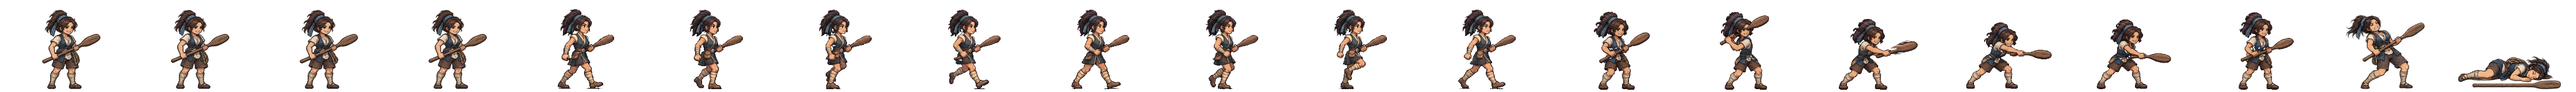
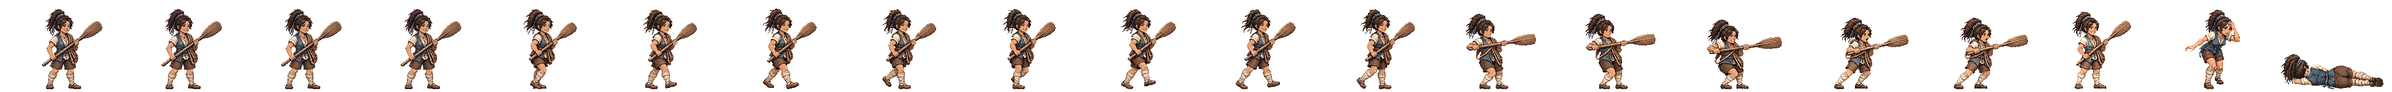
사물 사공 새 전투 띠를 게임에 넣음(서기·걷기·노 찌르기 여덟 칸·쓰러짐·밧줄 고쳐 메기)
띠 검사 합격(경고: 공격 끝 칸 윗몸 11px 뒤) · 시험 2162 통과.

Claude-Session: https://claude.ai/code/session_01TRiuN7s6aDfSnaHxrkctmU

Changed region(s): [[0.0, 0.125, 1.0, 0.9688]]

diff --git a/src/realm/data/spritePx.ts b/src/realm/data/spritePx.ts
@@ -1,3 +1,3 @@
 /** public/realm/anim-px/manifest.json 의 사본 — tools/sprite-normalize.mjs 가 만든다 (손으로 고치지 말 것). 칸 [가로, 세로] · feet = 발 줄(칸 위에서 y) · bodyPx = 서 있는 몸 키 */
 import { expandManifest } from './sprite-manifest.ts'
-export const SPRITE_PX: Readonly<Record<string, { readonly cell: readonly [number, number]; readonly feet: number; readonly bodyPx: number; readonly kind: 'general' | 'soldier' | 'folk' | 'crowd'; readonly cells: number }>> = expandManifest<{ readonly cell: readonly [number, number]; readonly feet: number; readonly bodyPx: number; readonly kind: 'general' | 'soldier' | 'folk' | 'crowd'; readonly cells: number }>([{"cell":[166,128],"feet":126,"bodyPx":124,"kind":"soldier","cells":20},{"cell":[116,128],"feet":126,"bodyPx":117,"kind":"soldier","cells":20},{"cell":[127,128],"feet":126,"bodyPx":116,"kind":"soldier","cells":20},{"cell":[269,128],"feet":126,"bodyPx":126,"kind":"soldier","cells":20},{"cell":[503,128],"feet":126,"bodyPx":127,"kind":"soldier","cells":20},{"cell":[614,128],"feet":126,"bodyPx":126,"kind":"soldier","cells":20},{"cell":[200,160],"feet":156,"bodyPx":138,"kind":"general","cells":20},{"cell":[208,160],"feet":155,"bodyPx":138,"kind":"general","cells":20},{"cell":[208,160],"feet":154,"bodyPx":138,"kind":"general","cells":20},{"cell":[304,160],"feet":155,"bodyPx":135,"kind":"general","cells":20},{"cell":[224,160],"feet":156,"bodyPx":139,"kind":"general","cells":20},{"cell":[184,160],"feet":156,"bodyPx":138,"kind":"general","cells":20},{"cell":[208,160],"feet":154,"bodyPx":136,"kind":"general","cells":20},{"cell":[240,160],"feet":156,"bodyPx":138,"kind":"general","cells":20},{"cell":[232,160],"feet":156,"bodyPx":138,"kind":"general","cells":20},{"cell":[208,160],"feet":156,"bodyPx":138,"kind":"general","cells":20},{"cell":[168,160],"feet":156,"bodyPx":138,"kind":"general","cells":20},{"cell":[192,160],"feet":156,"bodyPx":138,"kind":"general","cells":20},{"cell":[168,160],"feet":156,"bodyPx":124,"kind":"general","cells":20},{"cell":[216,160],"feet":156,"bodyPx":130,"kind":"general","cells":20},{"cell":[200,160],"feet":156,"bodyPx":116,"kind":"general","cells":20},{"cell":[200,160],"feet":156,"bodyPx":135,"kind":"general","cells":20},{"cell":[280,160],"feet":156,"bodyPx":138,"kind":"general","cells":20},{"cell":[232,160],"feet":155,"bodyPx":138,"kind":"general","cells":20},{"cell":[232,160],"feet":156,"bodyPx":134,"kind":"general","cells":20},{"cell":[144,160],"feet":156,"bodyPx":70,"kind":"general","cells":20},{"cell":[208,160],"feet":156,"bodyPx":70,"kind":"general","cells":20},{"cell":[192,160],"feet":156,"bodyPx":70,"kind":"general","cells":20},{"cell":[240,160],"feet":155,"bodyPx":138,"kind":"general","cells":20},{"cell":[160,160],"feet":156,"bodyPx":135,"kind":"general","cells":20},{"cell":[192,160],"feet":156,"bodyPx":128,"kind":"general","cells":20},{"cell":[224,160],"feet":155,"bodyPx":138,"kind":"general","cells":20},{"cell":[232,160],"feet":156,"bodyPx":139,"kind":"general","cells":20},{"cell":[264,160],"feet":155,"bodyPx":138,"kind":"general","cells":20},{"cell":[216,160],"feet":156,"bodyPx":138,"kind":"general","cells":20},{"cell":[208,160],"feet":156,"bodyPx":134,"kind":"general","cells":20},{"cell":[176,160],"feet":156,"bodyPx":130,"kind":"general","cells":20},{"cell":[248,160],"feet":156,"bodyPx":138,"kind":"general","cells":20},{"cell":[248,160],"feet":155,"bodyPx":138,"kind":"general","cells":20},{"cell":[192,160],"feet":155,"bodyPx":138,"kind":"general","cells":20},{"cell":[192,160],"feet":156,"bodyPx":124,"kind":"general","cells":20},{"cell":[208,160],"feet":154,"bodyPx":131,"kind":"general","cells":20},{"cell":[256,160],"feet":156,"bodyPx":138,"kind":"general","cells":20},{"cell":[232,160],"feet":156,"bodyPx":73,"kind":"general","cells":20},{"cell":[256,160],"feet":155,"bodyPx":138,"kind":"general","cells":20},{"cell":[264,160],"feet":156,"bodyPx":138,"kind":"general","cells":20},{"cell":[224,160],"feet":156,"bodyPx":138,"kind":"general","cells":20},{"cell":[224,160],"feet":156,"bodyPx":128,"kind":"general","cells":20},{"cell":[176,160],"feet":156,"bodyPx":129,"kind":"general","cells":20},{"cell":[208,160],"feet":156,"bodyPx":132,"kind":"general","cells":20},{"cell":[216,160],"feet":155,"bodyPx":138,"kind":"general","cells":20},{"cell":[184,160],"feet":156,"bodyPx":122,"kind":"general","cells":20},{"cell":[176,160],"feet":156,"bodyPx":138,"kind":"general","cells":20},{"cell":[280,160],"feet":155,"bodyPx":133,"kind":"general","cells":20},{"cell":[176,160],"feet":156,"bodyPx":70,"kind":"general","cells":20},{"cell":[186,128],"feet":126,"bodyPx":127,"kind":"soldier","cells":20},{"cell":[298,128],"feet":126,"bodyPx":126,"kind":"soldier","cells":20},{"cell":[82,128],"feet":126,"bodyPx":114,"kind":"folk","cells":8},{"cell":[134,128],"feet":126,"bodyPx":119,"kind":"soldier","cells":20},{"cell":[380,128],"feet":126,"bodyPx":124,"kind":"soldier","cells":20},{"cell":[114,128],"feet":126,"bodyPx":115,"kind":"soldier","cells":20},{"cell":[122,128],"feet":126,"bodyPx":114,"kind":"soldier","cells":20},{"cell":[254,128],"feet":126,"bodyPx":128,"kind":"soldier","cells":20},{"cell":[438,128],"feet":126,"bodyPx":126,"kind":"soldier","cells":20},{"cell":[88,128],"feet":126,"bodyPx":113,"kind":"folk","cells":8},{"cell":[100,128],"feet":126,"bodyPx":115,"kind":"folk","cells":8},{"cell":[108,128],"feet":126,"bodyPx":115,"kind":"folk","cells":8},{"cell":[63,128],"feet":126,"bodyPx":113,"kind":"folk","cells":8},{"cell":[69,96],"feet":96,"bodyPx":96,"kind":"crowd","cells":1},{"cell":[54,96],"feet":96,"bodyPx":96,"kind":"crowd","cells":1},{"cell":[47,96],"feet":96,"bodyPx":96,"kind":"crowd","cells":1},{"cell":[49,96],"feet":96,"bodyPx":96,"kind":"crowd","cells":1},{"cell":[57,96],"feet":96,"bodyPx":96,"kind":"crowd","cells":1},{"cell":[55,96],"feet":96,"bodyPx":96,"kind":"crowd","cells":1},{"cell":[45,96],"feet":96,"bodyPx":96,"kind":"crowd","cells":1},{"cell":[53,96],"feet":96,"bodyPx":96,"kind":"crowd","cells":1},{"cell":[64,96],"feet":96,"bodyPx":96,"kind":"crowd","cells":1},{"cell":[208,160],"feet":154,"bodyPx":139,"kind":"general","cells":20},{"cell":[184,160],"feet":156,"bodyPx":124,"kind":"general","cells":20},{"cell":[184,160],"feet":156,"bodyPx":134,"kind":"general","cells":20},{"cell":[224,160],"feet":156,"bodyPx":133,"kind":"general","cells":20},{"cell":[192,160],"feet":156,"bodyPx":135,"kind":"general","cells":20},{"cell":[184,160],"feet":156,"bodyPx":137,"kind":"general","cells":20},{"cell":[216,160],"feet":156,"bodyPx":134,"kind":"general","cells":20},{"cell":[216,160],"feet":156,"bodyPx":132,"kind":"general","cells":20},{"cell":[288,160],"feet":156,"bodyPx":138,"kind":"general","cells":20},{"cell":[192,160],"feet":156,"bodyPx":118,"kind":"general","cells":20},{"cell":[192,160],"feet":156,"bodyPx":134,"kind":"general","cells":20},{"cell":[192,160],"feet":157,"bodyPx":139,"kind":"general","cells":20},{"cell":[184,160],"feet":156,"bodyPx":128,"kind":"general","cells":20},{"cell":[240,160],"feet":156,"bodyPx":128,"kind":"general","cells":20},{"cell":[184,160],"feet":156,"bodyPx":132,"kind":"general","cells":20},{"cell":[208,160],"feet":156,"bodyPx":123,"kind":"general","cells":20},{"cell":[208,160],"feet":154,"bodyPx":137,"kind":"general","cells":20},{"cell":[176,160],"feet":156,"bodyPx":116,"kind":"general","cells":20},{"cell":[272,160],"feet":156,"bodyPx":138,"kind":"general","cells":20},{"cell":[176,160],"feet":156,"bodyPx":122,"kind":"general","cells":20},{"cell":[232,160],"feet":156,"bodyPx":127,"kind":"general","cells":20},{"cell":[176,160],"feet":156,"bodyPx":137,"kind":"general","cells":20},{"cell":[184,160],"feet":156,"bodyPx":133,"kind":"general","cells":20}],[["axe",0],["bandit-chief",1],["bandit-club",2],["boat",3],["bow",4],["crossbow",5],["gen-adogan",6],["gen-alpyeong",7],["gen-ara",8],["gen-areum",8],["gen-aryeong",9],["gen-bakdal",6],["gen-baram",10],["gen-bdanbi",11],["gen-beom",12],["gen-beombal",11],["gen-beomi",13],["gen-bira",14],["gen-biryu",15],["gen-budeul",16],["gen-byeol",17],["gen-daemusin",18],["gen-daeso",19],["gen-dallae2",11],["gen-dalli",11],["gen-damul",20],["gen-danbi",15],["gen-dangung",17],["gen-darae",21],["gen-dokmudeom",7],["gen-duman",22],["gen-eomni",23],["gen-eureum",24],["gen-g-bow",25],["gen-g-spear",26],["gen-g-sword",27],["gen-gaennae",6],["gen-gamsil",28],["gen-gaon",29],["gen-geota",15],["gen-geumbawi",11],["gen-geumha",30],["gen-goeun",15],["gen-gom",31],["gen-gomok",15],["gen-gureum",28],["gen-guryema",17],["gen-gwaeyu",14],["gen-haebi",8],["gen-haedal",6],["gen-haesol",32],["gen-halla",7],["gen-heo",33],["gen-hneoul",11],["gen-hogong",34],["gen-hojin",15],["gen-horselord",35],["gen-hwalmi",36],["gen-hyeokgeose",17],["gen-hyeopbo",6],["gen-irang",15],["gen-jibaekho",37],["gen-jinha",38],["gen-jita",39],["gen-jumong",40],["gen-keundol",7],["gen-maehwa",41],["gen-maenun",17],["gen-malgalgi",42],["gen-mari",13],["gen-maro",37],["gen-maryeo",15],["gen-mdallae",32],["gen-mir",6],["gen-mount",43],["gen-mulbeom",44],["gen-mulsae",34],["gen-musoe",34],["gen-noeul",8],["gen-nuri",45],["gen-ocheongan",46],["gen-odi",38],["gen-odogan",6],["gen-ogan",17],["gen-oi",47],["gen-olddaeso",24],["gen-onjo",48],["gen-pidogan",15],["gen-sagong",31],["gen-sdallae",6],["gen-sincheongan",34],["gen-singwigan",34],["gen-sinneoul",23],["gen-sobeol",23],["gen-soebi",6],["gen-soebo",49],["gen-soenun",37],["gen-sogeumbi",50],["gen-songbi",46],["gen-songyang",51],["gen-sori",52],["gen-soseono",53],["gen-suro",17],["gen-tahae",6],["gen-tneoul",46],["gen-w-bow",25],["gen-w-spear",54],["gen-waechief",15],["gen-wan",34],["gen-yeodogan",15],["gen-yucheongan",15],["gen-yusugan",37],["horse",55],["marine",56],["migrant",57],["militia",58],["pike",59],["pirate-captain",60],["pirate-sword",61],["shield",62],["spear",63],["villager-builder",64],["villager-farmer",65],["villager-porter",66],["villager-woman",67],["crowd-b1",68],["crowd-b2",69],["crowd-b3",70],["crowd-b4",71],["crowd-b5",72],["crowd-b6",73],["crowd-f1",68],["crowd-f2",73],["crowd-f3",74],["crowd-f4",75],["crowd-f5",68],["crowd-f6",76],["gen-dalbit",15],["gen-base-g-07-drunk-warrior",17],["gen-base-g-40-anya-adan",15],["gen-base-w-13-young-archer",8],["gen-base-g-03-sea-trader",13],["gen-base-w-10-pirate-captain",77],["gen-base-w-64-miri-dallae",77],["gen-base-g-41-goja-bau",13],["gen-base-g-42-dokro-garam",45],["gen-base-g-09-farmer-conscript",34],["gen-base-w-02-goguryeo-lady",34],["gen-base-w-17-mahan-pearl-diver",8],["gen-base-g-17-saro-isageum",49],["gen-base-g-18-daegaya-king",78],["gen-base-g-35-dabeol-dalgu",15],["gen-base-g-19-sabeol-veteran",34],["gen-base-w-23-usisan-whale-queen",34],["gen-base-g-36-gammun-gamdol",46],["gen-base-g-20-samul-sea-lord",42],["gen-base-g-37-eumjeup-jeup",11],["gen-base-g-38-chopal-palmae",17],["gen-base-w-75-daegaya-soemoe",17],["gen-base-g-45-dabeol-deulgae",11],["gen-base-g-04-jinhan-giant",15],["gen-base-g-08-veteran",15],["gen-base-w-18-jinhan-salt-widow",15],["gen-base-w-12-court-dancer",79],["gen-base-w-83-gyeonji-beodeul",80],["gen-base-w-05-baekje-queen",81],["gen-base-w-21-baekje-court-dancer",11],["gen-base-g-01-master-smith",82],["gen-base-g-93-jomun-solgae",36],["gen-base-g-57-bihwa-neup",13],["gen-base-w-72-eumjeup-beol",15],["gen-base-w-102-garak-dana",34],["gen-base-g-68-baekje-onnuri",15],["gen-base-w-27-mokji-jinha",6],["gen-base-g-22-ungcheon-gomnae",6],["gen-base-g-23-sangdang-soedal",15],["gen-base-g-24-wansan-onsan",6],["gen-base-g-25-balla-keunmoe",34],["gen-base-g-61-heomcheuk-bawi",34],["gen-base-g-88-wander-soeul",46],["gen-base-w-14-feast-spy",6],["gen-base-g-12-silla-youth",83],["gen-base-w-08-mahan-warrior",13],["gen-base-g-62-beonye-hanul",13],["gen-base-g-63-heomcheuk-beogeum",15],["gen-base-g-84-wander-seoneul",15],["gen-base-w-50-siljik-mulga",34],["gen-base-g-46-uga-nureongso",34],["gen-base-w-80-usan-gangchi",13],["gen-base-g-47-guga-sanyanggae",34],["gen-base-w-76-gampyeong-baetsagong",37],["gen-base-g-05-mahan-chieftain",84],["gen-base-g-58-usan-uhae",15],["gen-base-g-27-maek-maekdol",15],["gen-base-w-53-hwanna-gabi",16],["gen-base-w-29-golpo-janmul",37],["gen-base-g-53-baekje-haeru",6],["gen-base-w-71-yeonna-neoul",13],["gen-base-w-79-yangmaek-solmae",34],["gen-base-w-34-chopal-deulme",45],["gen-base-g-44-maga-malgup",85],["gen-base-w-31-dabeol-dalbit",77],["gen-base-g-51-biryuna-mulgyeol",46],["gen-base-g-48-gwanna-musoe",15],["gen-base-g-32-uga-sodu",14],["gen-base-g-49-goguryeo-sona",86],["gen-base-g-30-gwanna-soemoe",46],["gen-base-g-52-tamna-oreum",11],["gen-base-g-29-yeonna-myeongsol",40],["gen-base-w-56-dongokjeo-sogeum",87],["gen-base-g-54-mokji-mahan",14],["gen-base-g-33-jeoga-metdol",17],["gen-base-w-36-baekje-maena",17],["gen-base-w-38-sangdang-bulmae",6],["gen-base-w-39-gosaburi-galmae",88],["gen-base-w-40-mujin-munui",49],["gen-base-w-41-hwanna-beodeul",89],["gen-base-w-43-uga-nuri",42],["gen-base-w-45-tamna-oreumbi",11],["gen-base-g-60-golbeol-golgae",11],["gen-base-g-61-apdok-ap",34],["gen-base-g-62-gammun-gamnamu",6],["gen-base-g-63-chopal-yeoul",37],["gen-base-g-64-michuhol-sogeumkkun",13],["gen-base-g-65-sangdang-soemangchi",46],["gen-base-g-66-geonma-malbalgup",90],["gen-base-g-67-gosaburi-buri",91],["gen-base-g-68-mujin-bitgoeul",11],["gen-base-g-69-goryong-yong",46],["gen-base-g-70-siljik-pado",13],["gen-base-w-81-byeokjin-byeolbit",14],["gen-base-w-46-geonma-maru",37],["gen-base-w-48-mujin-mudeung",13],["gen-base-g-26-gampyeong-gaetbeol",14],["gen-base-g-60-eupcha-hangyeol",92],["gen-base-g-15-shaman-man",34],["gen-base-g-85-wander-ure",37],["gen-base-g-43-hwanna-amnok",15],["gen-base-g-50-bullae-gwaha",81],["gen-base-g-55-saro-bakdal",15],["gen-base-g-56-haseulla-gwahama",6],["gen-base-w-06-buyeo-huntress",93],["gen-base-w-22-dongye-tiger-huntress",8],["gen-base-w-25-bihwa-priestess",34],["gen-base-w-24-apdok-queen",11],["gen-base-w-61-iseo-sinae",15],["gen-base-w-26-iseo-tomboy-general",45],["gen-base-g-59-yangmaek-maekson",94],["gen-aw1-haebi",46],["gen-aw1-soseono",95],["gen-aw1-gamsil",11],["gen-aw1-mir",52],["gen-aw1-dangung",6],["gen-aw1-ara",46],["gen-aw1-jumong",96],["gen-aw1-onjo",97],["gen-aw1-base-w-83-gyeonji-beodeul",17],["gen-aw1-heo",45],["gen-aw1-base-g-38-chopal-palmae",6],["gen-aw1-base-w-25-bihwa-priestess",79],["gen-aw1-sori",16],["gen-aw1-gomok",6],["gen-aw1-irang",17],["gen-aw1-budeul",16],["gen-aw1-gom",13],["gen-aw1-sdallae",6],["gen-aw1-base-w-13-young-archer",6],["gen-aw1-base-w-36-baekje-maena",98],["gen-aw1-base-g-09-farmer-conscript",45],["gen-aw1-base-w-02-goguryeo-lady",99],["gen-aw1-haedal",11],["gen-aw1-hogong",6],["gen-aw1-maehwa",52],["gen-aw1-base-w-06-buyeo-huntress",14],["gen-aw1-base-w-08-mahan-warrior",46],["gen-aw1-base-w-29-golpo-janmul",46],["gen-aw1-base-w-31-dabeol-dalbit",17],["gen-aw1-base-w-38-sangdang-bulmae",16],["gen-aw1-bira",34],["gen-aw1-base-w-53-hwanna-gabi",16],["gen-aw1-base-w-56-dongokjeo-sogeum",52],["gen-aw1-base-w-72-eumjeup-beol",17],["gen-aw1-bdanbi",16],["gen-aw1-beom",11],["gen-aw1-beombal",11],["gen-aw1-byeol",17],["gen-aw1-dalli",52],["gen-aw1-malgalgi",37],["gen-aw1-sincheongan",34]])
+export const SPRITE_PX: Readonly<Record<string, { readonly cell: readonly [number, number]; readonly feet: number; readonly bodyPx: number; readonly kind: 'general' | 'soldier' | 'folk' | 'crowd'; readonly cells: number }>> = expandManifest<{ readonly cell: readonly [number, number]; readonly feet: number; readonly bodyPx: number; readonly kind: 'general' | 'soldier' | 'folk' | 'crowd'; readonly cells: number }>([{"cell":[166,128],"feet":126,"bodyPx":124,"kind":"soldier","cells":20},{"cell":[116,128],"feet":126,"bodyPx":117,"kind":"soldier","cells":20},{"cell":[127,128],"feet":126,"bodyPx":116,"kind":"soldier","cells":20},{"cell":[269,128],"feet":126,"bodyPx":126,"kind":"soldier","cells":20},{"cell":[503,128],"feet":126,"bodyPx":127,"kind":"soldier","cells":20},{"cell":[614,128],"feet":126,"bodyPx":126,"kind":"soldier","cells":20},{"cell":[200,160],"feet":156,"bodyPx":138,"kind":"general","cells":20},{"cell":[208,160],"feet":155,"bodyPx":138,"kind":"general","cells":20},{"cell":[208,160],"feet":154,"bodyPx":138,"kind":"general","cells":20},{"cell":[304,160],"feet":155,"bodyPx":135,"kind":"general","cells":20},{"cell":[224,160],"feet":156,"bodyPx":139,"kind":"general","cells":20},{"cell":[184,160],"feet":156,"bodyPx":138,"kind":"general","cells":20},{"cell":[208,160],"feet":154,"bodyPx":136,"kind":"general","cells":20},{"cell":[240,160],"feet":156,"bodyPx":138,"kind":"general","cells":20},{"cell":[232,160],"feet":156,"bodyPx":138,"kind":"general","cells":20},{"cell":[208,160],"feet":156,"bodyPx":138,"kind":"general","cells":20},{"cell":[168,160],"feet":156,"bodyPx":138,"kind":"general","cells":20},{"cell":[192,160],"feet":156,"bodyPx":138,"kind":"general","cells":20},{"cell":[168,160],"feet":156,"bodyPx":124,"kind":"general","cells":20},{"cell":[216,160],"feet":156,"bodyPx":130,"kind":"general","cells":20},{"cell":[200,160],"feet":156,"bodyPx":116,"kind":"general","cells":20},{"cell":[200,160],"feet":156,"bodyPx":135,"kind":"general","cells":20},{"cell":[280,160],"feet":156,"bodyPx":138,"kind":"general","cells":20},{"cell":[232,160],"feet":155,"bodyPx":138,"kind":"general","cells":20},{"cell":[232,160],"feet":156,"bodyPx":134,"kind":"general","cells":20},{"cell":[144,160],"feet":156,"bodyPx":70,"kind":"general","cells":20},{"cell":[208,160],"feet":156,"bodyPx":70,"kind":"general","cells":20},{"cell":[192,160],"feet":156,"bodyPx":70,"kind":"general","cells":20},{"cell":[240,160],"feet":155,"bodyPx":138,"kind":"general","cells":20},{"cell":[160,160],"feet":156,"bodyPx":135,"kind":"general","cells":20},{"cell":[192,160],"feet":156,"bodyPx":128,"kind":"general","cells":20},{"cell":[224,160],"feet":155,"bodyPx":138,"kind":"general","cells":20},{"cell":[232,160],"feet":156,"bodyPx":139,"kind":"general","cells":20},{"cell":[264,160],"feet":155,"bodyPx":138,"kind":"general","cells":20},{"cell":[216,160],"feet":156,"bodyPx":138,"kind":"general","cells":20},{"cell":[208,160],"feet":156,"bodyPx":134,"kind":"general","cells":20},{"cell":[176,160],"feet":156,"bodyPx":130,"kind":"general","cells":20},{"cell":[248,160],"feet":156,"bodyPx":138,"kind":"general","cells":20},{"cell":[248,160],"feet":155,"bodyPx":138,"kind":"general","cells":20},{"cell":[192,160],"feet":155,"bodyPx":138,"kind":"general","cells":20},{"cell":[192,160],"feet":156,"bodyPx":124,"kind":"general","cells":20},{"cell":[208,160],"feet":154,"bodyPx":131,"kind":"general","cells":20},{"cell":[256,160],"feet":156,"bodyPx":138,"kind":"general","cells":20},{"cell":[232,160],"feet":156,"bodyPx":73,"kind":"general","cells":20},{"cell":[256,160],"feet":155,"bodyPx":138,"kind":"general","cells":20},{"cell":[264,160],"feet":156,"bodyPx":138,"kind":"general","cells":20},{"cell":[224,160],"feet":156,"bodyPx":138,"kind":"general","cells":20},{"cell":[224,160],"feet":156,"bodyPx":128,"kind":"general","cells":20},{"cell":[176,160],"feet":156,"bodyPx":129,"kind":"general","cells":20},{"cell":[208,160],"feet":154,"bodyPx":139,"kind":"general","cells":20},{"cell":[208,160],"feet":156,"bodyPx":132,"kind":"general","cells":20},{"cell":[216,160],"feet":155,"bodyPx":138,"kind":"general","cells":20},{"cell":[184,160],"feet":156,"bodyPx":122,"kind":"general","cells":20},{"cell":[176,160],"feet":156,"bodyPx":138,"kind":"general","cells":20},{"cell":[280,160],"feet":155,"bodyPx":133,"kind":"general","cells":20},{"cell":[176,160],"feet":156,"bodyPx":70,"kind":"general","cells":20},{"cell":[186,128],"feet":126,"bodyPx":127,"kind":"soldier","cells":20},{"cell":[298,128],"feet":126,"bodyPx":126,"kind":"soldier","cells":20},{"cell":[82,128],"feet":126,"bodyPx":114,"kind":"folk","cells":8},{"cell":[134,128],"feet":126,"bodyPx":119,"kind":"soldier","cells":20},{"cell":[380,128],"feet":126,"bodyPx":124,"kind":"soldier","cells":20},{"cell":[114,128],"feet":126,"bodyPx":115,"kind":"soldier","cells":20},{"cell":[122,128],"feet":126,"bodyPx":114,"kind":"soldier","cells":20},{"cell":[254,128],"feet":126,"bodyPx":128,"kind":"soldier","cells":20},{"cell":[438,128],"feet":126,"bodyPx":126,"kind":"soldier","cells":20},{"cell":[88,128],"feet":126,"bodyPx":113,"kind":"folk","cells":8},{"cell":[100,128],"feet":126,"bodyPx":115,"kind":"folk","cells":8},{"cell":[108,128],"feet":126,"bodyPx":115,"kind":"folk","cells":8},{"cell":[63,128],"feet":126,"bodyPx":113,"kind":"folk","cells":8},{"cell":[69,96],"feet":96,"bodyPx":96,"kind":"crowd","cells":1},{"cell":[54,96],"feet":96,"bodyPx":96,"kind":"crowd","cells":1},{"cell":[47,96],"feet":96,"bodyPx":96,"kind":"crowd","cells":1},{"cell":[49,96],"feet":96,"bodyPx":96,"kind":"crowd","cells":1},{"cell":[57,96],"feet":96,"bodyPx":96,"kind":"crowd","cells":1},{"cell":[55,96],"feet":96,"bodyPx":96,"kind":"crowd","cells":1},{"cell":[45,96],"feet":96,"bodyPx":96,"kind":"crowd","cells":1},{"cell":[53,96],"feet":96,"bodyPx":96,"kind":"crowd","cells":1},{"cell":[64,96],"feet":96,"bodyPx":96,"kind":"crowd","cells":1},{"cell":[184,160],"feet":156,"bodyPx":124,"kind":"general","cells":20},{"cell":[184,160],"feet":156,"bodyPx":134,"kind":"general","cells":20},{"cell":[224,160],"feet":156,"bodyPx":133,"kind":"general","cells":20},{"cell":[192,160],"feet":156,"bodyPx":135,"kind":"general","cells":20},{"cell":[184,160],"feet":156,"bodyPx":137,"kind":"general","cells":20},{"cell":[216,160],"feet":156,"bodyPx":134,"kind":"general","cells":20},{"cell":[216,160],"feet":156,"bodyPx":132,"kind":"general","cells":20},{"cell":[288,160],"feet":156,"bodyPx":138,"kind":"general","cells":20},{"cell":[192,160],"feet":156,"bodyPx":118,"kind":"general","cells":20},{"cell":[192,160],"feet":156,"bodyPx":134,"kind":"general","cells":20},{"cell":[192,160],"feet":157,"bodyPx":139,"kind":"general","cells":20},{"cell":[184,160],"feet":156,"bodyPx":128,"kind":"general","cells":20},{"cell":[240,160],"feet":156,"bodyPx":128,"kind":"general","cells":20},{"cell":[184,160],"feet":156,"bodyPx":132,"kind":"general","cells":20},{"cell":[208,160],"feet":156,"bodyPx":123,"kind":"general","cells":20},{"cell":[208,160],"feet":154,"bodyPx":137,"kind":"general","cells":20},{"cell":[176,160],"feet":156,"bodyPx":116,"kind":"general","cells":20},{"cell":[272,160],"feet":156,"bodyPx":138,"kind":"general","cells":20},{"cell":[176,160],"feet":156,"bodyPx":122,"kind":"general","cells":20},{"cell":[232,160],"feet":156,"bodyPx":127,"kind":"general","cells":20},{"cell":[176,160],"feet":156,"bodyPx":137,"kind":"general","cells":20},{"cell":[184,160],"feet":156,"bodyPx":133,"kind":"general","cells":20}],[["axe",0],["bandit-chief",1],["bandit-club",2],["boat",3],["bow",4],["crossbow",5],["gen-adogan",6],["gen-alpyeong",7],["gen-ara",8],["gen-areum",8],["gen-aryeong",9],["gen-bakdal",6],["gen-baram",10],["gen-bdanbi",11],["gen-beom",12],["gen-beombal",11],["gen-beomi",13],["gen-bira",14],["gen-biryu",15],["gen-budeul",16],["gen-byeol",17],["gen-daemusin",18],["gen-daeso",19],["gen-dallae2",11],["gen-dalli",11],["gen-damul",20],["gen-danbi",15],["gen-dangung",17],["gen-darae",21],["gen-dokmudeom",7],["gen-duman",22],["gen-eomni",23],["gen-eureum",24],["gen-g-bow",25],["gen-g-spear",26],["gen-g-sword",27],["gen-gaennae",6],["gen-gamsil",28],["gen-gaon",29],["gen-geota",15],["gen-geumbawi",11],["gen-geumha",30],["gen-goeun",15],["gen-gom",31],["gen-gomok",15],["gen-gureum",28],["gen-guryema",17],["gen-gwaeyu",14],["gen-haebi",8],["gen-haedal",6],["gen-haesol",32],["gen-halla",7],["gen-heo",33],["gen-hneoul",11],["gen-hogong",34],["gen-hojin",15],["gen-horselord",35],["gen-hwalmi",36],["gen-hyeokgeose",17],["gen-hyeopbo",6],["gen-irang",15],["gen-jibaekho",37],["gen-jinha",38],["gen-jita",39],["gen-jumong",40],["gen-keundol",7],["gen-maehwa",41],["gen-maenun",17],["gen-malgalgi",42],["gen-mari",13],["gen-maro",37],["gen-maryeo",15],["gen-mdallae",32],["gen-mir",6],["gen-mount",43],["gen-mulbeom",44],["gen-mulsae",34],["gen-musoe",34],["gen-noeul",8],["gen-nuri",45],["gen-ocheongan",46],["gen-odi",38],["gen-odogan",6],["gen-ogan",17],["gen-oi",47],["gen-olddaeso",24],["gen-onjo",48],["gen-pidogan",15],["gen-sagong",49],["gen-sdallae",6],["gen-sincheongan",34],["gen-singwigan",34],["gen-sinneoul",23],["gen-sobeol",23],["gen-soebi",6],["gen-soebo",50],["gen-soenun",37],["gen-sogeumbi",51],["gen-songbi",46],["gen-songyang",52],["gen-sori",53],["gen-soseono",54],["gen-suro",17],["gen-tahae",6],["gen-tneoul",46],["gen-w-bow",25],["gen-w-spear",55],["gen-waechief",15],["gen-wan",34],["gen-yeodogan",15],["gen-yucheongan",15],["gen-yusugan",37],["horse",56],["marine",57],["migrant",58],["militia",59],["pike",60],["pirate-captain",61],["pirate-sword",62],["shield",63],["spear",64],["villager-builder",65],["villager-farmer",66],["villager-porter",67],["villager-woman",68],["crowd-b1",69],["crowd-b2",70],["crowd-b3",71],["crowd-b4",72],["crowd-b5",73],["crowd-b6",74],["crowd-f1",69],["crowd-f2",74],["crowd-f3",75],["crowd-f4",76],["crowd-f5",69],["crowd-f6",77],["gen-dalbit",15],["gen-base-g-07-drunk-warrior",17],["gen-base-g-40-anya-adan",15],["gen-base-w-13-young-archer",8],["gen-base-g-03-sea-trader",13],["gen-base-w-10-pirate-captain",49],["gen-base-w-64-miri-dallae",49],["gen-base-g-41-goja-bau",13],["gen-base-g-42-dokro-garam",45],["gen-base-g-09-farmer-conscript",34],["gen-base-w-02-goguryeo-lady",34],["gen-base-w-17-mahan-pearl-diver",8],["gen-base-g-17-saro-isageum",50],["gen-base-g-18-daegaya-king",78],["gen-base-g-35-dabeol-dalgu",15],["gen-base-g-19-sabeol-veteran",34],["gen-base-w-23-usisan-whale-queen",34],["gen-base-g-36-gammun-gamdol",46],["gen-base-g-20-samul-sea-lord",42],["gen-base-g-37-eumjeup-jeup",11],["gen-base-g-38-chopal-palmae",17],["gen-base-w-75-daegaya-soemoe",17],["gen-base-g-45-dabeol-deulgae",11],["gen-base-g-04-jinhan-giant",15],["gen-base-g-08-veteran",15],["gen-base-w-18-jinhan-salt-widow",15],["gen-base-w-12-court-dancer",79],["gen-base-w-83-gyeonji-beodeul",80],["gen-base-w-05-baekje-queen",81],["gen-base-w-21-baekje-court-dancer",11],["gen-base-g-01-master-smith",82],["gen-base-g-93-jomun-solgae",36],["gen-base-g-57-bihwa-neup",13],["gen-base-w-72-eumjeup-beol",15],["gen-base-w-102-garak-dana",34],["gen-base-g-68-baekje-onnuri",15],["gen-base-w-27-mokji-jinha",6],["gen-base-g-22-ungcheon-gomnae",6],["gen-base-g-23-sangdang-soedal",15],["gen-base-g-24-wansan-onsan",6],["gen-base-g-25-balla-keunmoe",34],["gen-base-g-61-heomcheuk-bawi",34],["gen-base-g-88-wander-soeul",46],["gen-base-w-14-feast-spy",6],["gen-base-g-12-silla-youth",83],["gen-base-w-08-mahan-warrior",13],["gen-base-g-62-beonye-hanul",13],["gen-base-g-63-heomcheuk-beogeum",15],["gen-base-g-84-wander-seoneul",15],["gen-base-w-50-siljik-mulga",34],["gen-base-g-46-uga-nureongso",34],["gen-base-w-80-usan-gangchi",13],["gen-base-g-47-guga-sanyanggae",34],["gen-base-w-76-gampyeong-baetsagong",37],["gen-base-g-05-mahan-chieftain",84],["gen-base-g-58-usan-uhae",15],["gen-base-g-27-maek-maekdol",15],["gen-base-w-53-hwanna-gabi",16],["gen-base-w-29-golpo-janmul",37],["gen-base-g-53-baekje-haeru",6],["gen-base-w-71-yeonna-neoul",13],["gen-base-w-79-yangmaek-solmae",34],["gen-base-w-34-chopal-deulme",45],["gen-base-g-44-maga-malgup",85],["gen-base-w-31-dabeol-dalbit",49],["gen-base-g-51-biryuna-mulgyeol",46],["gen-base-g-48-gwanna-musoe",15],["gen-base-g-32-uga-sodu",14],["gen-base-g-49-goguryeo-sona",86],["gen-base-g-30-gwanna-soemoe",46],["gen-base-g-52-tamna-oreum",11],["gen-base-g-29-yeonna-myeongsol",40],["gen-base-w-56-dongokjeo-sogeum",87],["gen-base-g-54-mokji-mahan",14],["gen-base-g-33-jeoga-metdol",17],["gen-base-w-36-baekje-maena",17],["gen-base-w-38-sangdang-bulmae",6],["gen-base-w-39-gosaburi-galmae",88],["gen-base-w-40-mujin-munui",50],["gen-base-w-41-hwanna-beodeul",89],["gen-base-w-43-uga-nuri",42],["gen-base-w-45-tamna-oreumbi",11],["gen-base-g-60-golbeol-golgae",11],["gen-base-g-61-apdok-ap",34],["gen-base-g-62-gammun-gamnamu",6],["gen-base-g-63-chopal-yeoul",37],["gen-base-g-64-michuhol-sogeumkkun",13],["gen-base-g-65-sangdang-soemangchi",46],["gen-base-g-66-geonma-malbalgup",90],["gen-base-g-67-gosaburi-buri",91],["gen-base-g-68-mujin-bitgoeul",11],["gen-base-g-69-goryong-yong",46],["gen-base-g-70-siljik-pado",13],["gen-base-w-81-byeokjin-byeolbit",14],["gen-base-w-46-geonma-maru",37],["gen-base-w-48-mujin-mudeung",13],["gen-base-g-26-gampyeong-gaetbeol",14],["gen-base-g-60-eupcha-hangyeol",92],["gen-base-g-15-shaman-man",34],["gen-base-g-85-wander-ure",37],["gen-base-g-43-hwanna-amnok",15],["gen-base-g-50-bullae-gwaha",81],["gen-base-g-55-saro-bakdal",15],["gen-base-g-56-haseulla-gwahama",6],["gen-base-w-06-buyeo-huntress",93],["gen-base-w-22-dongye-tiger-huntress",8],["gen-base-w-25-bihwa-priestess",34],["gen-base-w-24-apdok-queen",11],["gen-base-w-61-iseo-sinae",15],["gen-base-w-26-iseo-tomboy-general",45],["gen-base-g-59-yangmaek-maekson",94],["gen-aw1-haebi",46],["gen-aw1-soseono",95],["gen-aw1-gamsil",11],["gen-aw1-mir",53],["gen-aw1-dangung",6],["gen-aw1-ara",46],["gen-aw1-jumong",96],["gen-aw1-onjo",97],["gen-aw1-base-w-83-gyeonji-beodeul",17],["gen-aw1-heo",45],["gen-aw1-base-g-38-chopal-palmae",6],["gen-aw1-base-w-25-bihwa-priestess",79],["gen-aw1-sori",16],["gen-aw1-gomok",6],["gen-aw1-irang",17],["gen-aw1-budeul",16],["gen-aw1-gom",13],["gen-aw1-sdallae",6],["gen-aw1-base-w-13-young-archer",6],["gen-aw1-base-w-36-baekje-maena",98],["gen-aw1-base-g-09-farmer-conscript",45],["gen-aw1-base-w-02-goguryeo-lady",99],["gen-aw1-haedal",11],["gen-aw1-hogong",6],["gen-aw1-maehwa",53],["gen-aw1-base-w-06-buyeo-huntress",14],["gen-aw1-base-w-08-mahan-warrior",46],["gen-aw1-base-w-29-golpo-janmul",46],["gen-aw1-base-w-31-dabeol-dalbit",17],["gen-aw1-base-w-38-sangdang-bulmae",16],["gen-aw1-bira",34],["gen-aw1-base-w-53-hwanna-gabi",16],["gen-aw1-base-w-56-dongokjeo-sogeum",53],["gen-aw1-base-w-72-eumjeup-beol",17],["gen-aw1-bdanbi",16],["gen-aw1-beom",11],["gen-aw1-beombal",11],["gen-aw1-byeol",17],["gen-aw1-dalli",53],["gen-aw1-malgalgi",37],["gen-aw1-sincheongan",34]])

diff --git a/src/duel/view.ts b/src/duel/view.ts
@@ -100,7 +100,7 @@ const crowdFront = [1, 2, 3, 4, 5, 6].map((i) => img(`realm/duel/crowd/b${i}.png
 const crowdReady = (set: HTMLImageElement[]): boolean => set.every((im) => im.complete && im.naturalWidth > 0)
 const pxMode = cfg.px !== false && params.get('px') !== '0'
 /** 겨루기 전용 옛 띠(duel/sprites) 대신 열전과 같은 도트 띠(anim-px)를 쓰는 장수 — 두 판에서 같은 모습 · 서기 계획·쓰러지는 칸도 같다 (11-23 범 · 매화 · 달빛 · 11-24 해비 · 아룸) */
-const PX_DUEL: ReadonlySet<string> = new Set(['beom', 'maehwa', 'base-w-31-dabeol-dalbit', 'haebi', 'areum', 'base-w-13-young-archer', 'base-w-10-pirate-captain', 'base-w-17-mahan-pearl-diver', 'base-w-06-buyeo-huntress', 'base-w-64-miri-dallae', 'ara', 'base-w-22-dongye-tiger-huntress', 'noeul'])
+const PX_DUEL: ReadonlySet<string> = new Set(['beom', 'maehwa', 'base-w-31-dabeol-dalbit', 'haebi', 'areum', 'base-w-13-young-archer', 'base-w-10-pirate-captain', 'base-w-17-mahan-pearl-diver', 'base-w-06-buyeo-huntress', 'base-w-64-miri-dallae', 'ara', 'base-w-22-dongye-tiger-huntress', 'noeul', 'sagong'])
 /** 띠 그림 — 기본은 anim-px(도트 규격) 먼저, 없으면 옛 띠로 (img 의 onerror 가 갈아 끼운다) */
 const strip = (s: string): HTMLImageElement => pxMode
   ? DUEL_ATLASES[s] !== undefined && !PX_DUEL.has(s) ? img(`realm/duel/sprites/gen-${s}.png`, `realm/anim-px/gen-${s}.png`)

diff --git a/src/tune/params.ts b/src/tune/params.ts
@@ -1423,6 +1423,7 @@ export const HAEBI_IDLE = {
     ara: { cells: 34, base: [0, 1], hold: 2.4, fall: [18, 20, 21, 19], quirk: [22, 23, 24, 25], quirkTimes: [.3, .32, .4, .28], attack: { cells: [26, 27, 28, 29, 30, 31, 32, 33], times: [.09, .08, .11, .05, .15, .07, .08, .12], hit: 4 }, xGeom: { h: 224, root: 92, foot: 216 } },
     'base-w-22-dongye-tiger-huntress': { cells: 34, base: [0, 1], hold: 2.4, fall: [18, 20, 21, 19], quirk: [22, 23, 24, 25], quirkTimes: [.3, .32, .4, .28], attack: { cells: [26, 27, 28, 29, 30, 31, 32, 33], times: [.09, .08, .11, .05, .15, .07, .08, .12], hit: 4 }, xGeom: { h: 224, root: 92, foot: 216 } },
     noeul: { cells: 26, base: [0, 1], hold: 2.4, fall: [18, 20, 21, 19], quirk: [22, 23, 24, 25], quirkTimes: [.28, .3, .42, .25] },
+    sagong: { cells: 34, base: [0, 1], hold: 2.4, fall: [18, 20, 21, 19], quirk: [22, 23, 24, 25], quirkTimes: [.3, .32, .4, .28], attack: { cells: [26, 27, 28, 29, 30, 31, 32, 33], times: [.09, .08, .11, .05, .15, .07, .08, .12], hit: 4 }, xGeom: { h: 224, root: 92, foot: 216 } },
   },
 } as const
 export const HAEBI_ANIM = {
